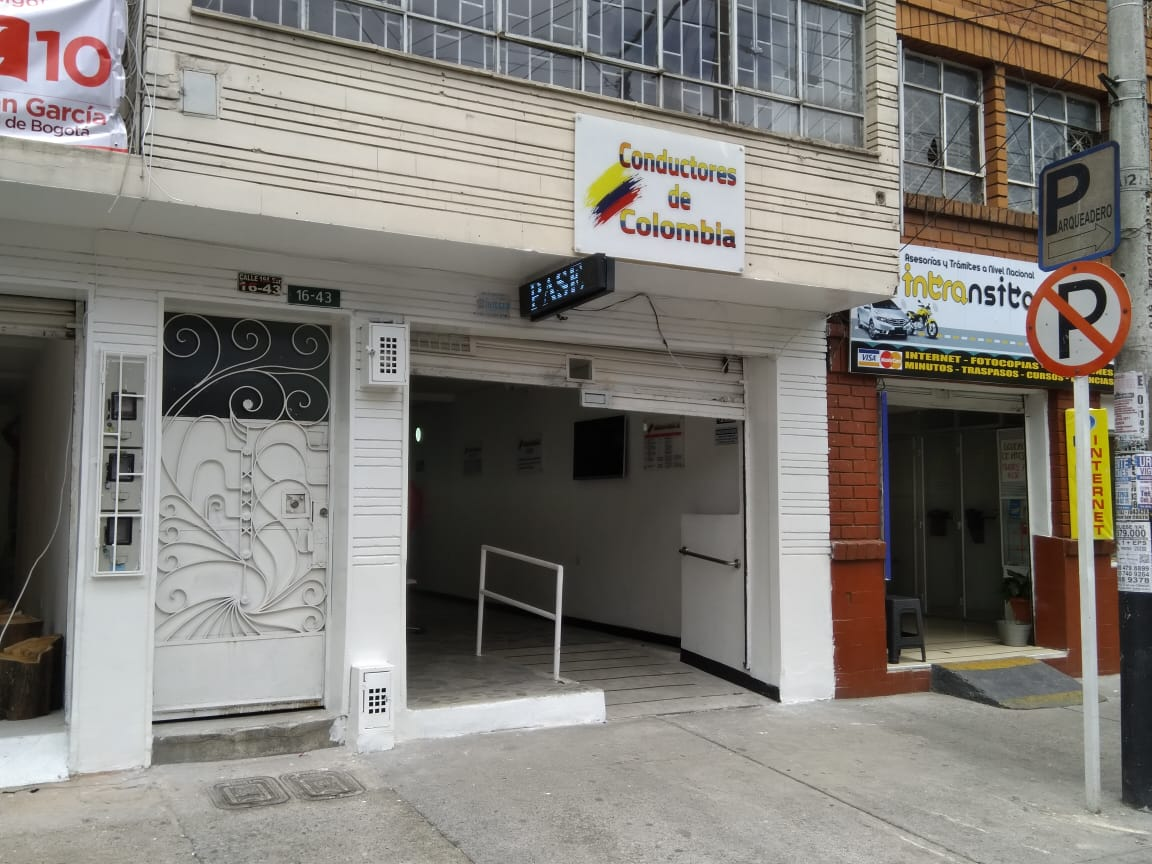
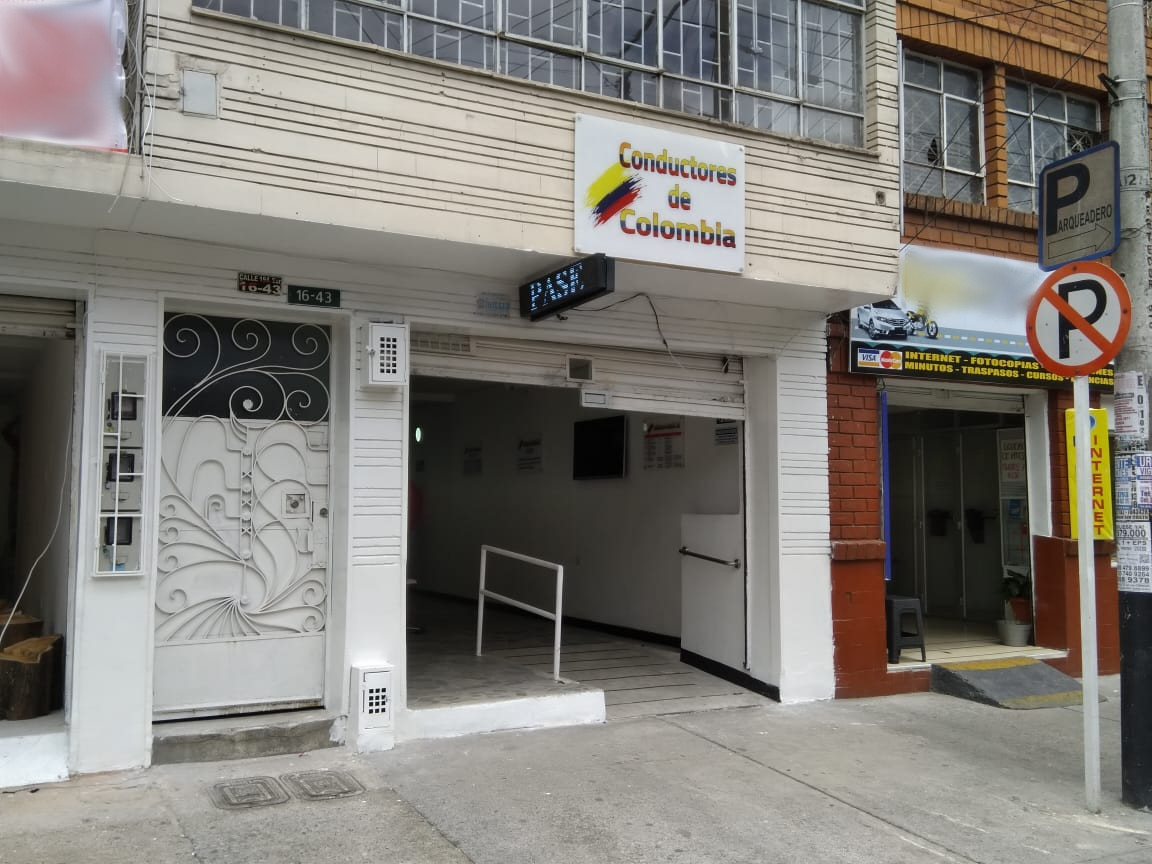
añado efecto blur a la publicidad no deseada

Changed region(s): [[0.0, 0.0, 0.125, 0.1875], [0.7812, 0.2812, 0.9062, 0.375]]

diff --git a/index.html b/index.html
@@ -83,7 +83,7 @@
     <div class="container">
       <div class="row no-gutters">
         <div class="col-md-5 p-md-5 img img-2 d-flex justify-content-center align-items-center order-md-last"
-          style="background-image: url(images/codeco.jpg);">
+          style="background-image: url(images/lateral.jpeg);">
         </div>
         <div class="col-md-7 wrap-about pt-md-5 ftco-animate">
           <div class="heading-section mb-3 pt-3 pl-md-3">
@@ -364,7 +364,7 @@
             <div class="project img ftco-animate d-flex justify-content-center align-items-center"
               style="background-image: url(images/medicina.jpg);">
               <div class="overlay"></div>
-              <a href="#" class="btn-site d-flex align-items-center justify-content-center"><span
+              <a href="services.html" class="btn-site d-flex align-items-center justify-content-center"><span
                   class="icon-subdirectory_arrow_right"></span></a>
               <div class="text text-center p-4">
                 <h3><a href="https://api.whatsapp.com/send?phone=573017977937">Especialistas en Salud Ocupacional</a></h3>
@@ -376,7 +376,7 @@
             <div class="project img ftco-animate d-flex justify-content-center align-items-center"
               style="background-image: url(images/doctor.jpg);">
               <div class="overlay"></div>
-              <a href="#" class="btn-site d-flex align-items-center justify-content-center"><span
+              <a href="services.html" class="btn-site d-flex align-items-center justify-content-center"><span
                   class="icon-subdirectory_arrow_right"></span></a>
               <div class="text text-center p-4">
                 <h3><a href="https://api.whatsapp.com/send?phone=573017977937">Centro de reconocimiento de conductores</a></h3>
@@ -389,7 +389,7 @@
             <div class="project img ftco-animate d-flex justify-content-center align-items-center"
               style="background-image: url(images/tension.jpg);">
               <div class="overlay"></div>
-              <a href="#" class="btn-site d-flex align-items-center justify-content-center"><span
+              <a href="services.html" class="btn-site d-flex align-items-center justify-content-center"><span
                   class="icon-subdirectory_arrow_right"></span></a>
               <div class="text text-center p-4">
                 <h3><a href="https://api.whatsapp.com/send?phone=573017977937">Re-categorizar y/o refrendar la licencia de conducción</a></h3>
@@ -403,7 +403,7 @@
                 <div class="project img ftco-animate d-flex justify-content-center align-items-center"
                   style="background-image: url(images/academy.jpg);">
                   <div class="overlay"></div>
-                  <a href="#" class="btn-site d-flex align-items-center justify-content-center"><span
+                  <a href="services.html" class="btn-site d-flex align-items-center justify-content-center"><span
                       class="icon-subdirectory_arrow_right"></span></a>
                   <div class="text text-center p-4">
                     <h3><a href="https://api.whatsapp.com/send?phone=573017977937">Academia de conducción</a></h3>
@@ -411,7 +411,6 @@
                   </div>
                 </div>
               </div>
-
             </div>
           </div>
         </div>
